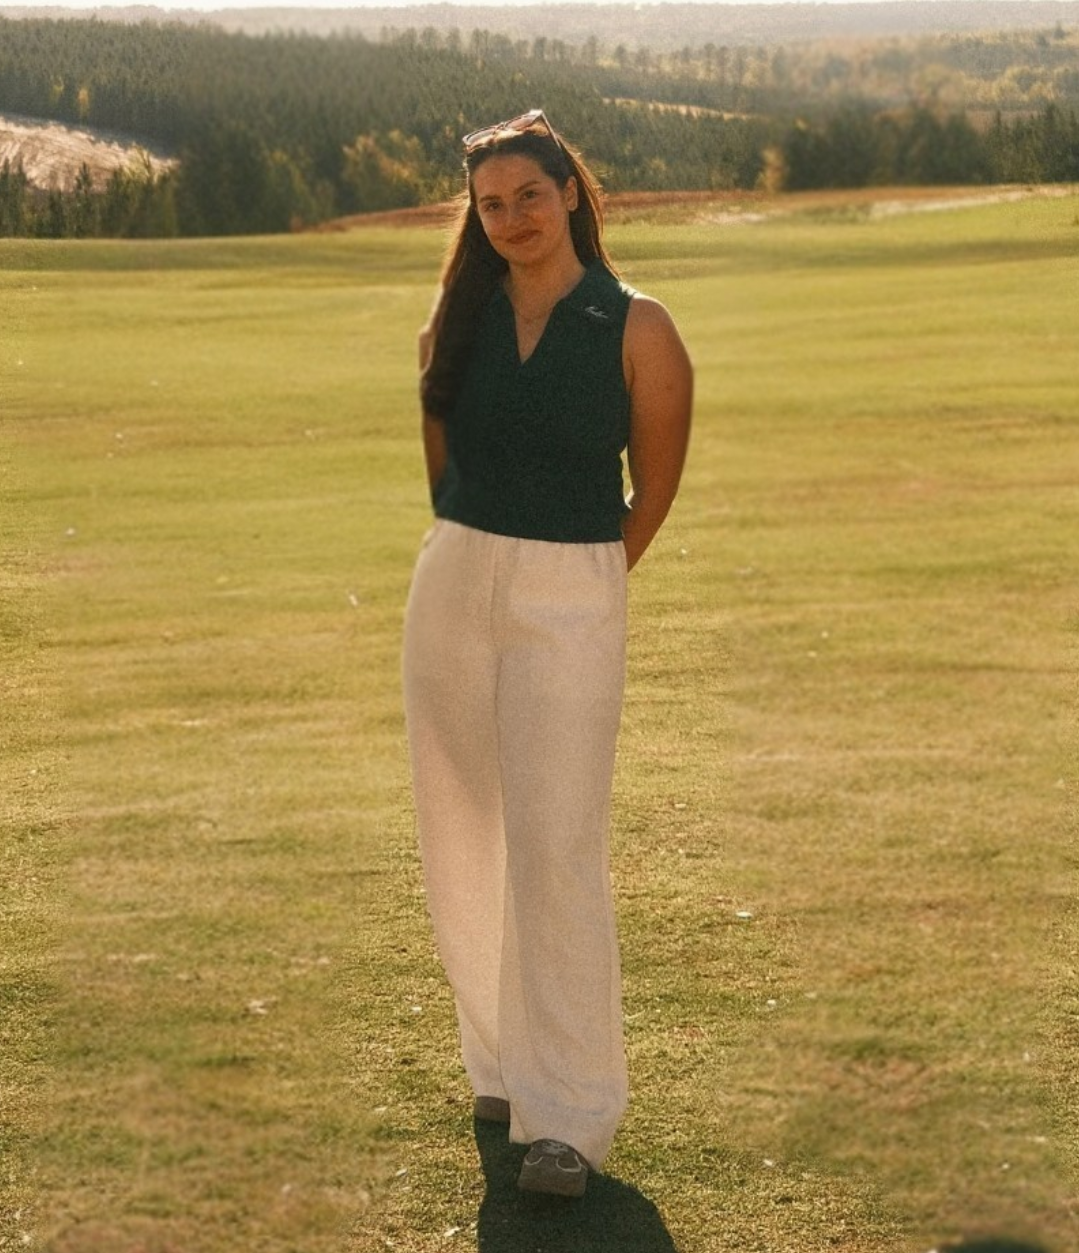
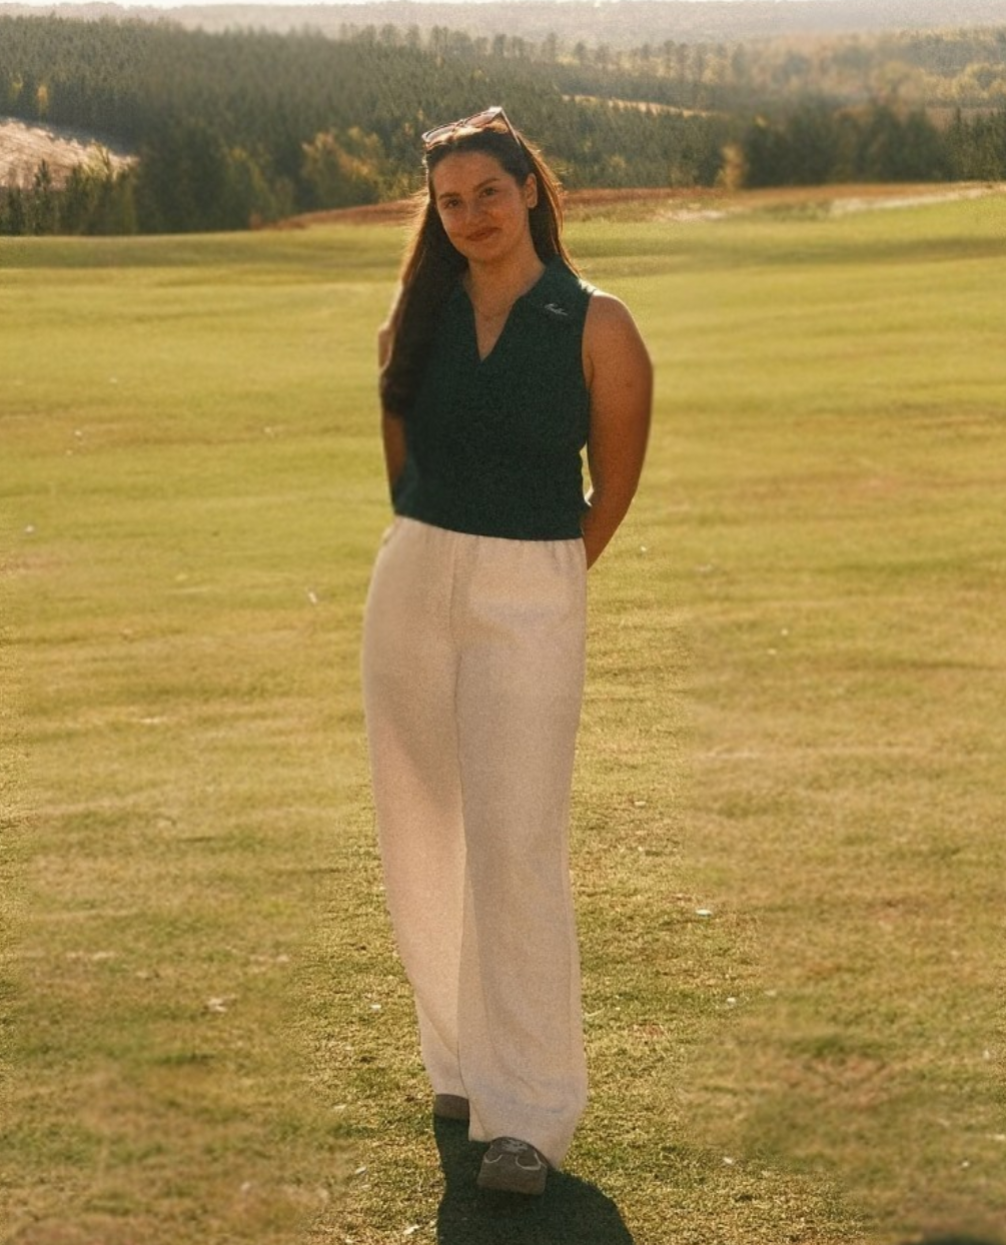
Update Kari profile image and add butterfly asset to Section4
Replit-Commit-Author: Agent

diff --git a/artifacts/clark-kent/src/Section4.tsx b/artifacts/clark-kent/src/Section4.tsx
@@ -2,6 +2,11 @@ export default function Section4() {
   return (
     <section id="about" className="about-section">
       <div className="about-inner">
+        {/* Left — profile picture */}
+        <div className="about-image-col">
+          <img src="/kari-profile.png" alt="Kari Karanikos" className="about-image" />
+        </div>
+
         {/* Right — text */}
         <div className="about-text-col">
           <h2 className="about-heading">ABOUT</h2>
